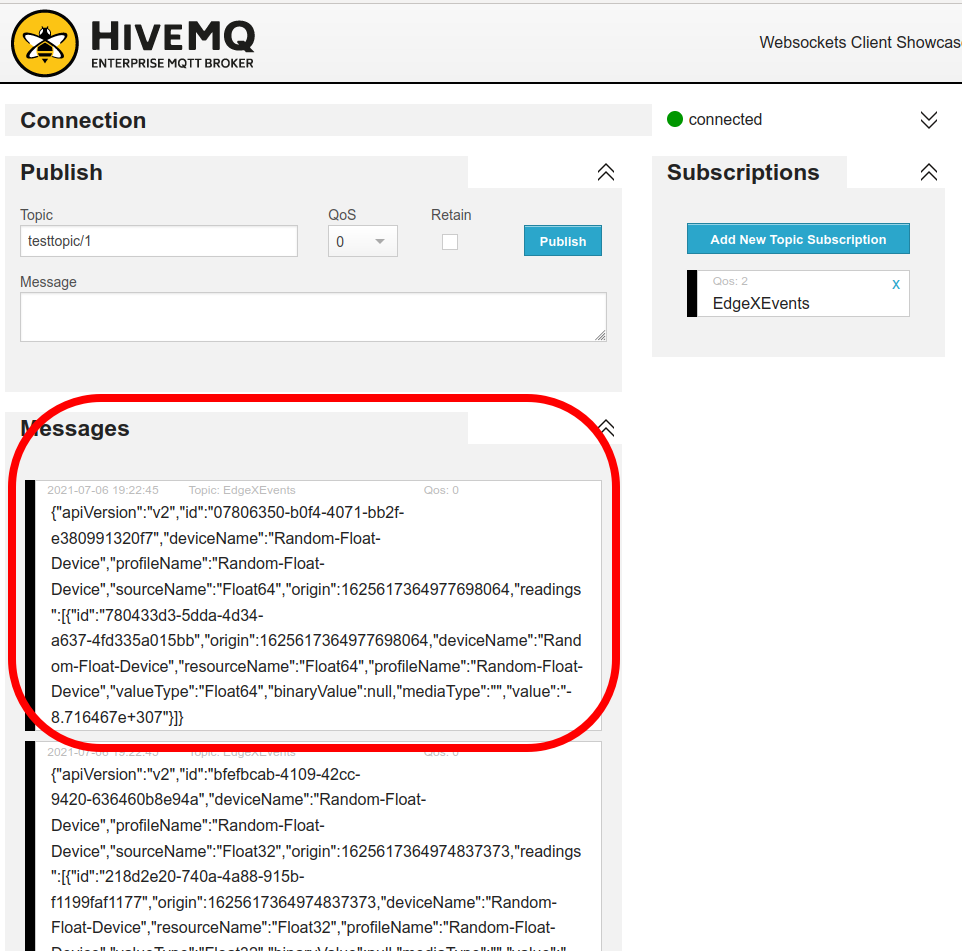
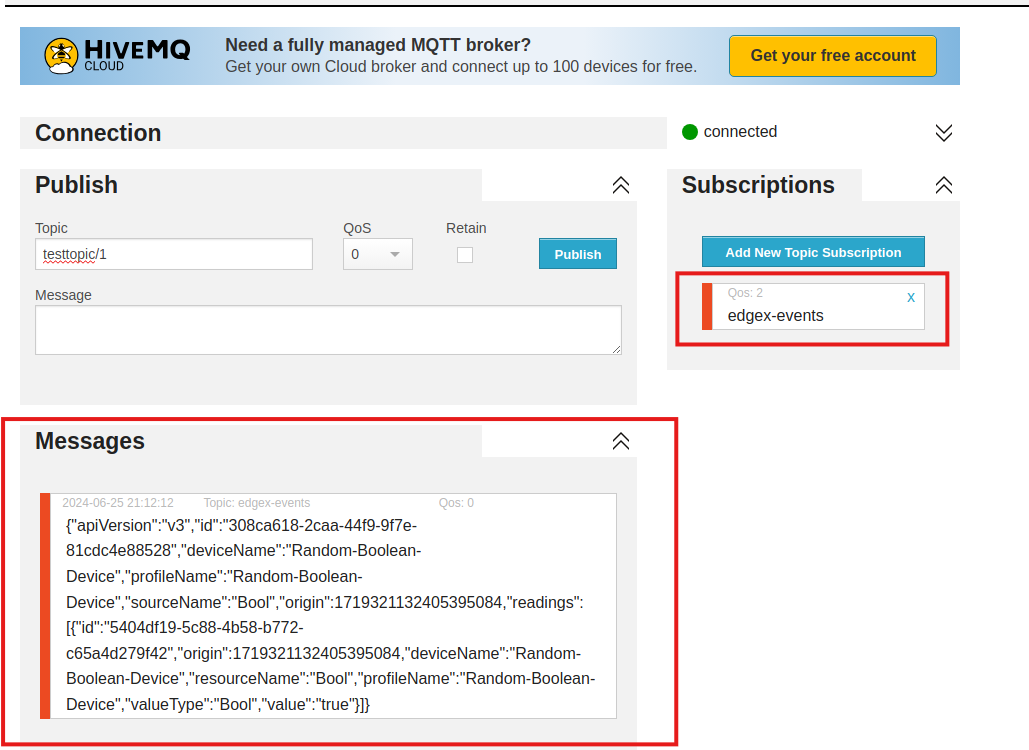
fix: Update HiveMQ testing broker address

diff --git a/docs_src/getting-started/quick-start/index.md b/docs_src/getting-started/quick-start/index.md
@@ -215,7 +215,7 @@ First add the following application service to your docker-compose.yml file righ
 ```
 
 !!! Note
-    This adds the application service configurable to your EdgeX system.  The application service configurable allows you to configure (versus program) new exports - in this case exporting the EdgeX sensor data to the HiveMQ broker at `tcp://broker.mqttdashboard.com:1883`.  You will be publishing to the EdgeXEvents topic.
+    This adds the application service configurable to your EdgeX system.  The application service configurable allows you to configure (versus program) new exports - in this case exporting the EdgeX sensor data to the HiveMQ broker at `tcp://broker.hivemq.com:1883`.  You will be publishing to the edgex-events topic.
 
     For convenience, see documentation on the [EdgeX Compose Builder](../Ch-GettingStartedDockerUsers/#generate-a-custom-docker-compose-file) to create custom Docker Compose files.
 
@@ -229,10 +229,10 @@ You can connect to this broker with any MQTT client to watch the sent data. Hive
 ![image](./EdgeX_ConnectToHiveMQ.png)
 *Using the HiveMQ provided client tool, connect to the same public HiveMQ broker your configurable application service is sending EdgeX data to.*
 
-Then, use the Subscriptions area to subscribe to the "EdgeXEvents" topic.
+Then, use the Subscriptions area to subscribe to the "edgex-events" topic.
 
 ![image](./EdgeX_HiveMQTTWebClient.png)
-*You must subscribe to the same topic - EdgeXEvents - to see the EdgeX data sent by the configurable application service.*
+*You must subscribe to the same topic - edgex-events - to see the EdgeX data sent by the configurable application service.*
 
 You will begin seeing your random number readings appear in the Messages area on the screen.
 
